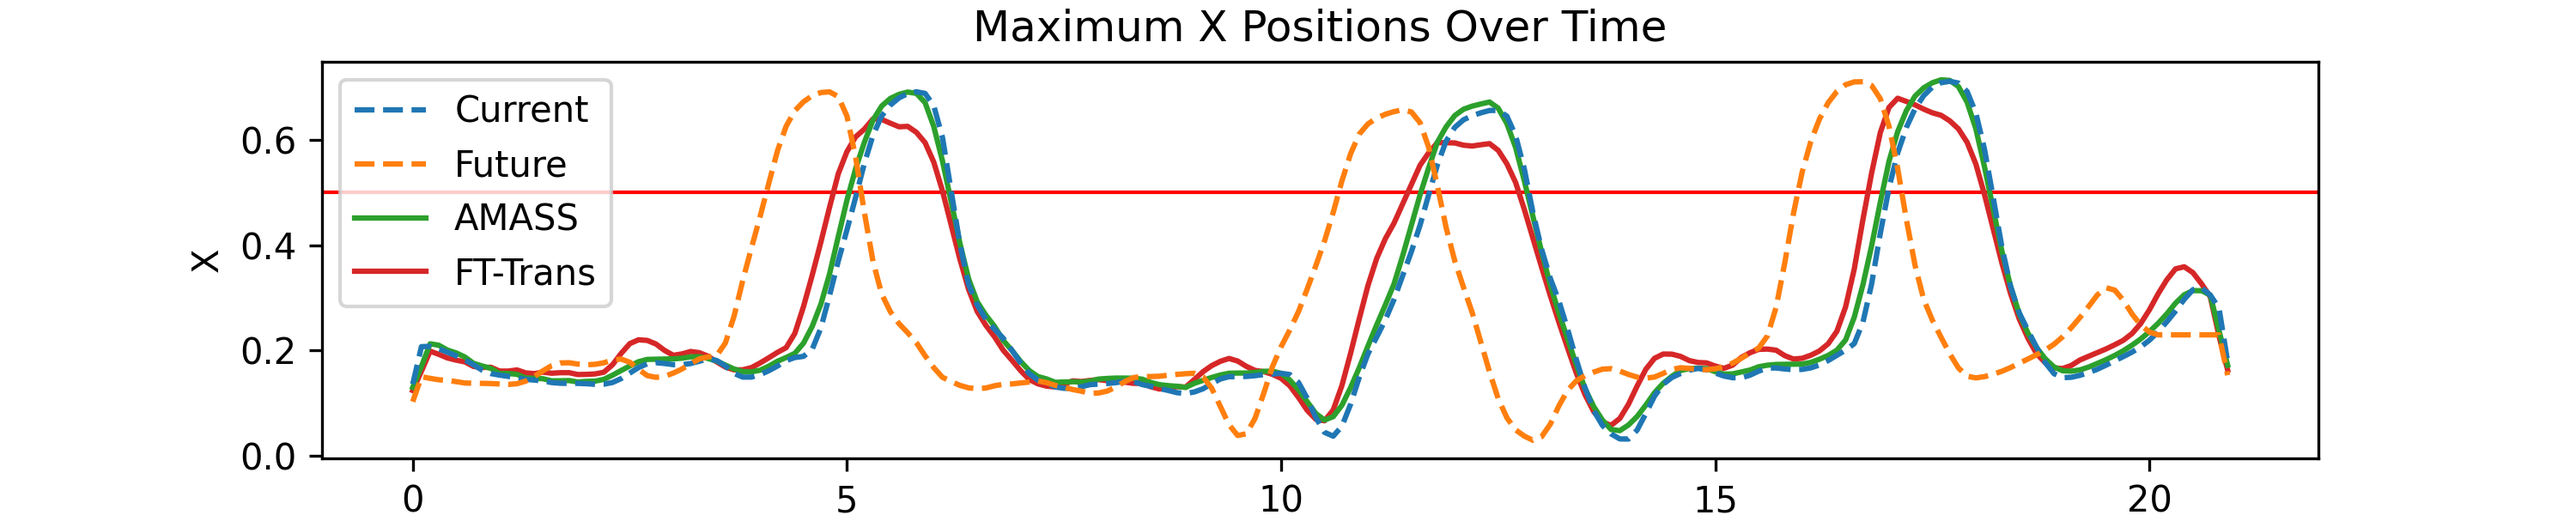
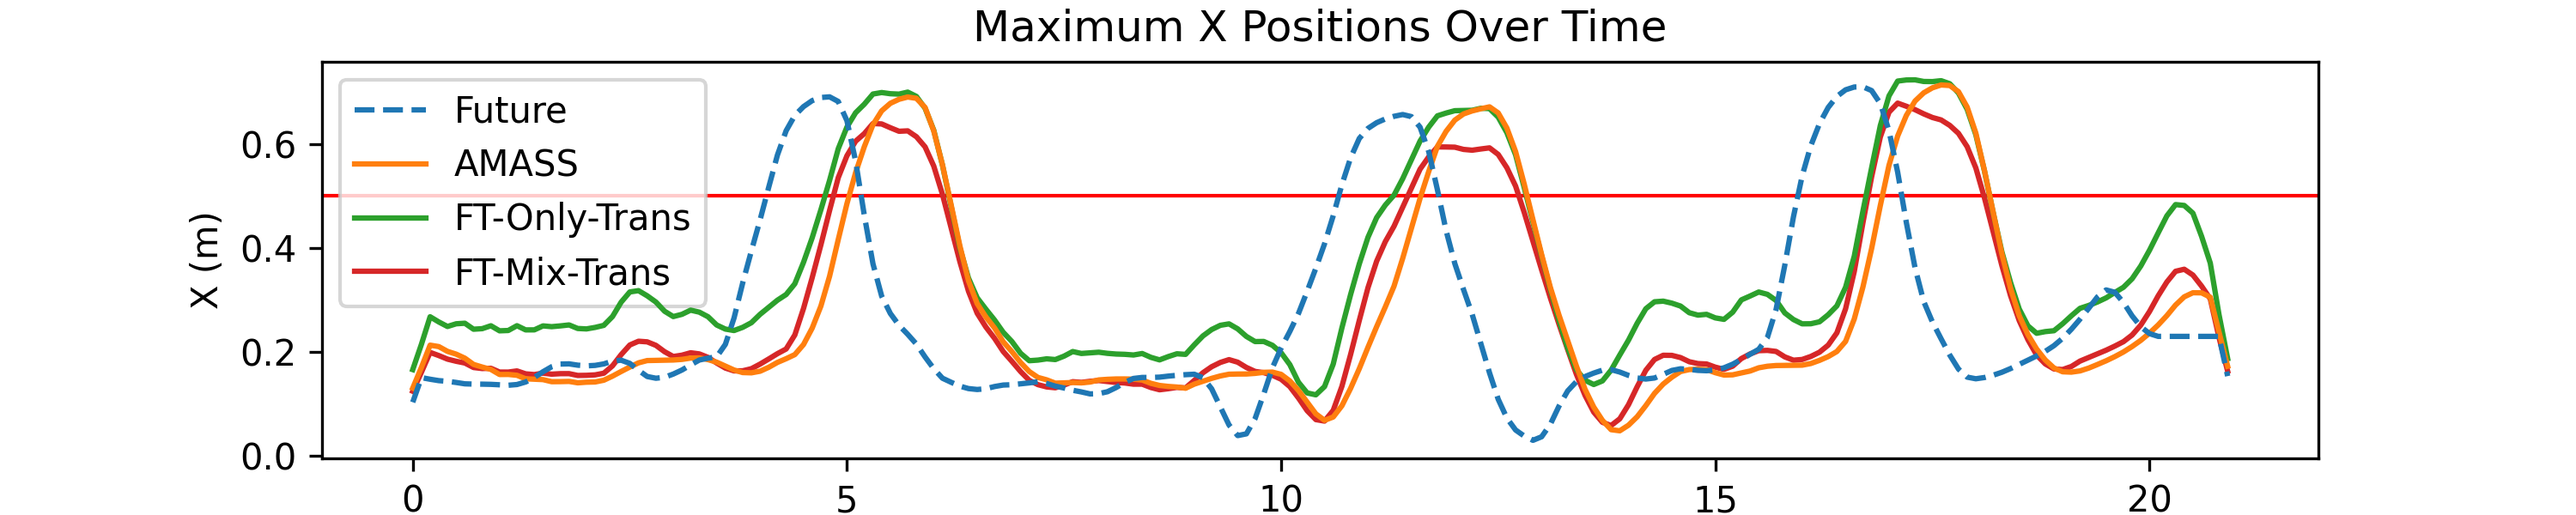
Changed some visualizations

diff --git a/plot_positions.py b/plot_positions.py
@@ -6,7 +6,7 @@ import numpy as np
 from model import *
 import torch
 import matplotlib.pyplot as plt
-from utils.loss_funcs import mpjpe_error
+from utils.loss_funcs import mpjpe_error, perjoint_error
 
 relevant_joints = ['BackTop', 'LShoulderBack', 'RShoulderBack',
                        'LElbowOut', 'RElbowOut', 'LWristOut', 'RWristOut', 'WaistLBack', 'WaistRBack']
@@ -84,7 +84,8 @@ model_map = {
     'AMASS': create_model(f'{model_folder}/pretrained_unweighted/49_amass_3d_25frames_ckpt'),
     # TODO: Create model trained on only our data
     # 'FT': create_model(f'{model_folder}/finetuned_stirring_unweighted_no_transitions/19_amass_3d_25frames_ckpt'),
-    'FT-Trans': create_model(f'{model_folder}/finetuned_stirring_unweighted_with_transitions/19_amass_3d_25frames_ckpt'),
+    'FT-Only-Trans': create_model(f'{model_folder}/finetuned_stirring_unweighted_only_transitions/19_amass_3d_25frames_ckpt'),
+    'FT-Mix-Trans': create_model(f'{model_folder}/finetuned_stirring_unweighted_with_transitions/19_amass_3d_25frames_ckpt'),
     # 'FT-Trans-Weight': create_model(f'{model_folder}/finetuned_stirring_wrist_10_elbow_2_with_transitions/19_amass_3d_25frames_ckpt')
 }
 
@@ -148,8 +149,12 @@ for timestep in range(joint_data.shape[0]):
         forecast_joints = get_forecast(history_joints, model)
         x_max = np.array(forecast_joints)[:, :, 0].max()
         if (timestep%step_interval) == 0:
-            loss = mpjpe_error(torch.tensor(forecast_joints[:-2]).unsqueeze(0),torch.tensor(future_joints[:-2]).unsqueeze(0))*1000
-            forecast_losses[model_name].append(loss)
+            seq_pred = torch.tensor(forecast_joints[:-2]).unsqueeze(0)
+            seq_gt = torch.tensor(future_joints[:-2]).unsqueeze(0)
+            loss = mpjpe_error(seq_pred,seq_gt)*1000
+            per_joint_error=perjoint_error(seq_pred,seq_gt)*1000
+            forecast_losses[model_name].append(loss) # MPJPE
+            # forecast_losses[model_name].append(per_joint_error[6])
             forecast_x_values[model_name].append(x_max)
         if x_max < threshold: forecast_in_danger[model_name]=False
         if not forecast_in_danger[model_name] and x_max > threshold:
@@ -163,7 +168,7 @@ for timestep in range(joint_data.shape[0]):
 # print("Future reaction times = ", np.array(future_reaction_times)- np.array(current_reaction_times))
 # print("Forecast reaction times = ", np.array(forecast_reaction_times) - np.array(current_reaction_times))
 
-plotting = False
+plotting = True
 if plotting:
     plot_folder = './plots/'
     plot_name = activity + f'{episode_num}' + '.png'
@@ -182,8 +187,8 @@ if plotting:
 
     # Set plot title and labels
     plt.title('Maximum X Positions Over Time')
-    plt.xlabel('Time')
-    plt.ylabel('X')
+    plt.xlabel('Time (s)')
+    plt.ylabel('X (m)')
 
     # Add a legend
     plt.legend()
@@ -193,6 +198,8 @@ if plotting:
     # Save the plot as a PNG image file
     plt.savefig(plot_folder + plot_name, dpi=300)
     print(f'----- plotted to {plot_folder + plot_name} -----')
+
+plt.clf()
 
 plotting_mpjpe = True
 if plotting_mpjpe:
@@ -207,8 +214,8 @@ if plotting_mpjpe:
 
     # Set plot title and labels
     plt.title('MPJPE Loss Over Time')
-    plt.xlabel('Time')
-    plt.ylabel('MPJPE')
+    plt.xlabel('Time (s)')
+    plt.ylabel('MPJPE (mm)')
 
     # Add a legend
     plt.legend()
